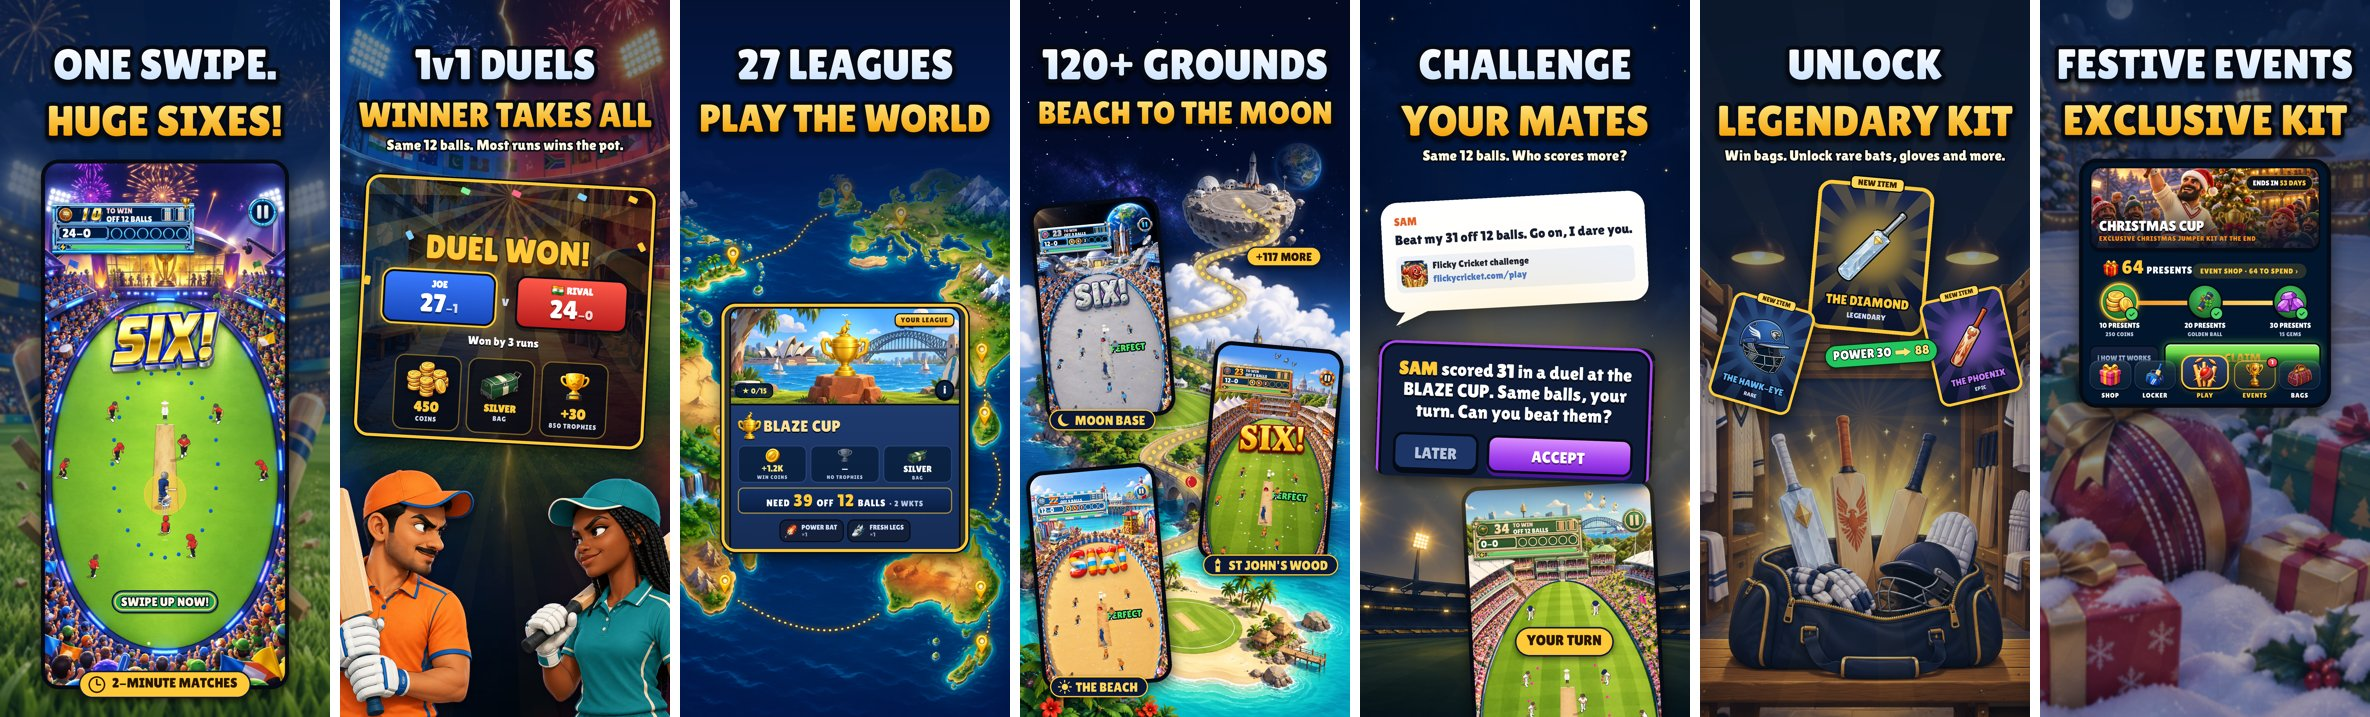
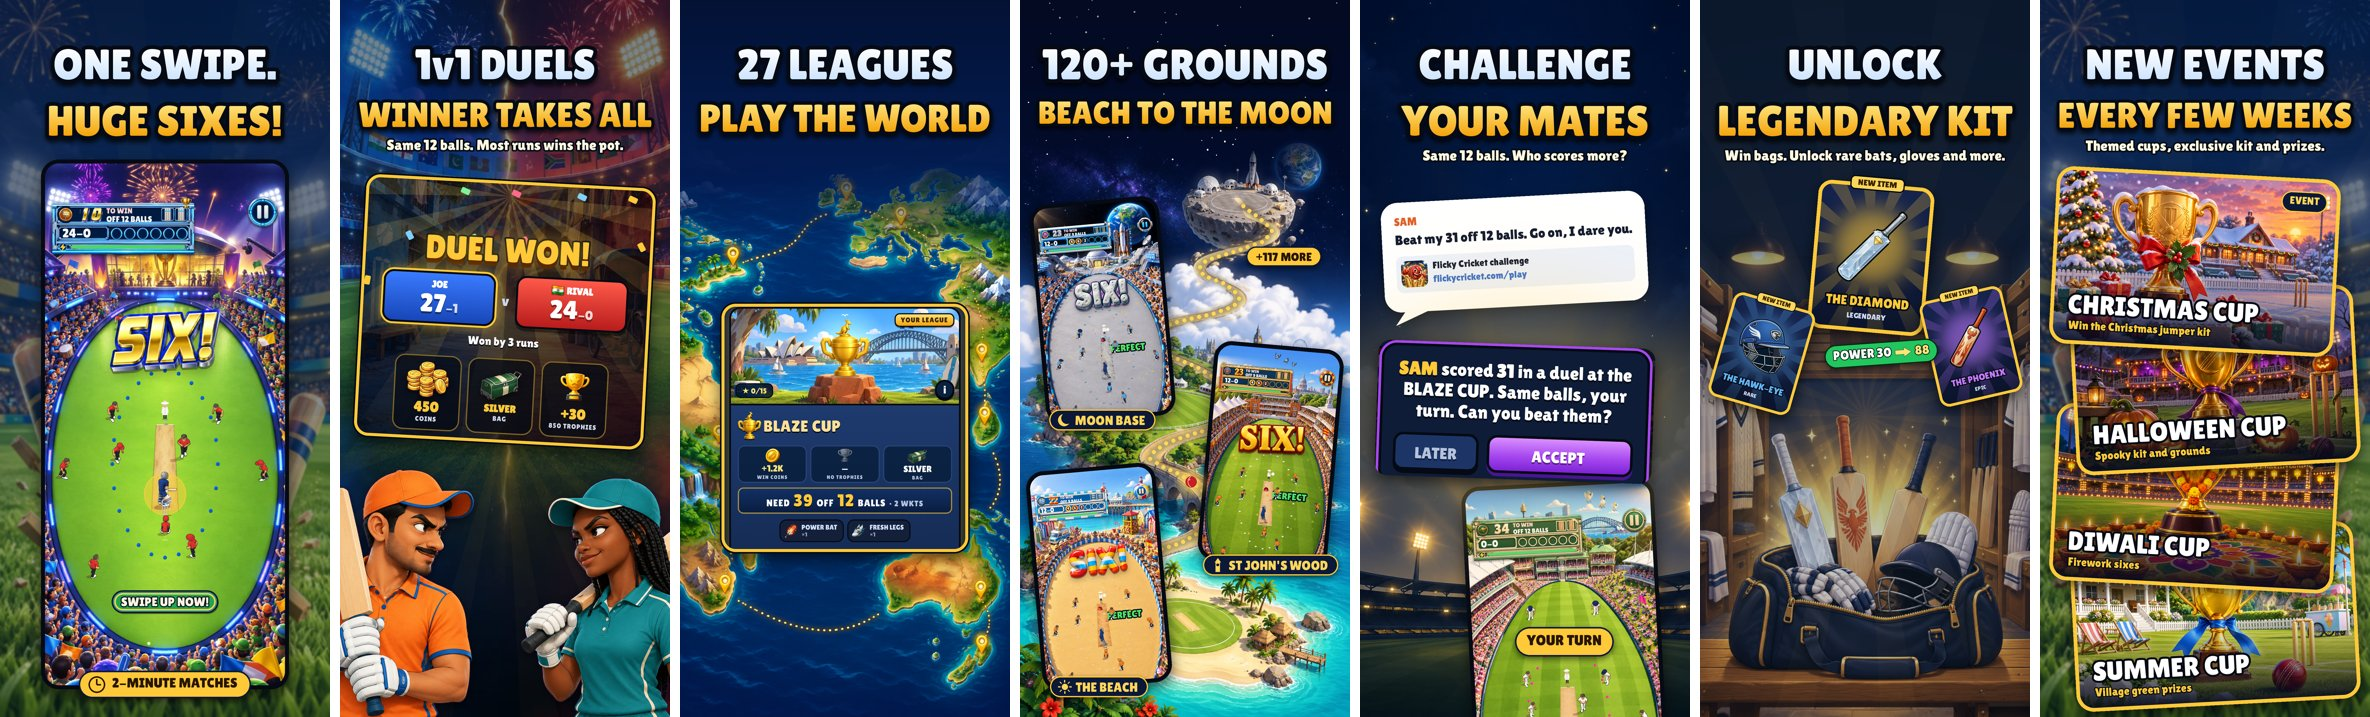
Store slide 7: new events every few weeks (Christmas, Halloween, Diwali, Summer cups) on the stadium background
Claude-Session: https://claude.ai/code/session_01EnXvJ6P6HcGRxjBSnYPdAU

Changed region(s): [[0.843, 0.0614, 1.0, 1.0], [0.8743, 0.0, 0.9055, 0.0307]]

diff --git a/art/store/slide7_events.py b/art/store/slide7_events.py
@@ -1,0 +1,33 @@
+import sys
+exec(open('blend3.py').read().split("A=(0,0,1,1)")[0])
+def head(im,l1,l2,sub=None):
+    y=int(H*0.045)
+    for txt,cols in [(l1,((255,255,255),(205,228,255))),(l2,((255,226,122),(244,163,10)))]:
+        L=word(txt,W*0.13,*cols,W*0.9); drop(im,L,(W-L.width)//2,y,blur=int(8*K),off=(0,int(12*K)),a=0.7); y+=int(L.height*0.78)
+    if sub:
+        d=ImageDraw.Draw(im); fs=F(W*0.045); d.text(((W-fs.getlength(sub))/2,y+int(6*K)),sub,font=fs,fill=(255,248,225),stroke_width=int(6*K),stroke_fill=(5,10,20)); y+=int(W*0.07)
+    return y
+def evcard(src,title,sub,tag,wf,ang,crop=(0,0.04,1,0.96)):
+    a=Image.open(src).convert('RGB'); a=a.crop((int(a.width*crop[0]),int(a.height*crop[1]),int(a.width*crop[2]),int(a.height*crop[3])))
+    w=int(W*wf); a=a.resize((w,int(a.height*w/a.width)),Image.LANCZOS).convert('RGBA'); h=a.height
+    g=Image.new('L',(1,256)); [g.putpixel((0,y),int(235*max(0,(y-120)/135)**1.4)) for y in range(256)]
+    sh=Image.new('RGBA',(w,h),(6,12,32,255)); sh.putalpha(g.resize((w,h))); a.alpha_composite(sh)
+    d=ImageDraw.Draw(a); f=F(w*0.095); d.text((int(w*0.05),int(h*0.70)),title,font=f,fill=(255,255,255),stroke_width=int(w*0.008),stroke_fill=(5,10,20))
+    f2=F(w*0.042); d.text((int(w*0.055),int(h*0.70+w*0.105)),sub,font=f2,fill=(255,201,58),stroke_width=int(w*0.004),stroke_fill=(5,10,20))
+    if tag:
+        f3=F(w*0.038); tw=f3.getlength(tag); ph=int(w*0.075); pw=int(tw+w*0.06); x0=w-pw-int(w*0.035); y0=int(w*0.035)
+        d.rounded_rectangle((x0,y0,x0+pw,y0+ph),ph//2,fill=(12,24,56,235),outline=(255,201,58,255),width=max(2,int(w*0.005))); d.text((x0+w*0.03,y0+ph*0.14),tag,font=f3,fill=(255,214,90))
+    r=int(w*0.05); m=Image.new('L',(w,h),0); ImageDraw.Draw(m).rounded_rectangle((0,0,w-1,h-1),r,fill=255); a.putalpha(m)
+    b=int(w*0.014); O=Image.new('RGBA',(w+2*b,h+2*b),(0,0,0,0)); ImageDraw.Draw(O).rounded_rectangle((0,0,O.width-1,O.height-1),r+b,fill=(255,201,58,255)); O.alpha_composite(a,(b,b))
+    return O.rotate(ang,Image.BICUBIC,expand=True)
+tall=H/W>2.1
+im=scene('bg/b1.png'); top=head(im,'NEW EVENTS','EVERY FEW WEEKS','Themed cups, exclusive kit and prizes.')
+wf=0.84 if tall else 0.72
+cards=[('evart/summer.png','SUMMER CUP','Village green prizes',None,0.53,0.86,3),
+       ('evart/diwali.png','DIWALI CUP','Firework sixes',None,0.47,0.695,-3),
+       ('evart/halloween.png','HALLOWEEN CUP','Spooky kit and grounds',None,0.53,0.53,3),
+       ('evart/xmas.png','CHRISTMAS CUP','Win the Christmas jumper kit','EVENT',0.47,0.365,-3)]
+if not tall: cards=[(a,b,c,d,e,{0.86:0.84,0.695:0.68,0.53:0.52,0.365:0.355}[f],g) for a,b,c,d,e,f,g in cards]
+for src,t,s_,tag,cx,cy,ang in cards:
+    C=evcard(src,t,s_,tag,wf,ang); drop(im,C,int(W*cx-C.width/2),int(H*cy-C.height/2),blur=int(26*K),off=(0,int(20*K)),a=0.6)
+im.convert('RGB').save(f'{OUT}/07_ev.png'); print('ok')
